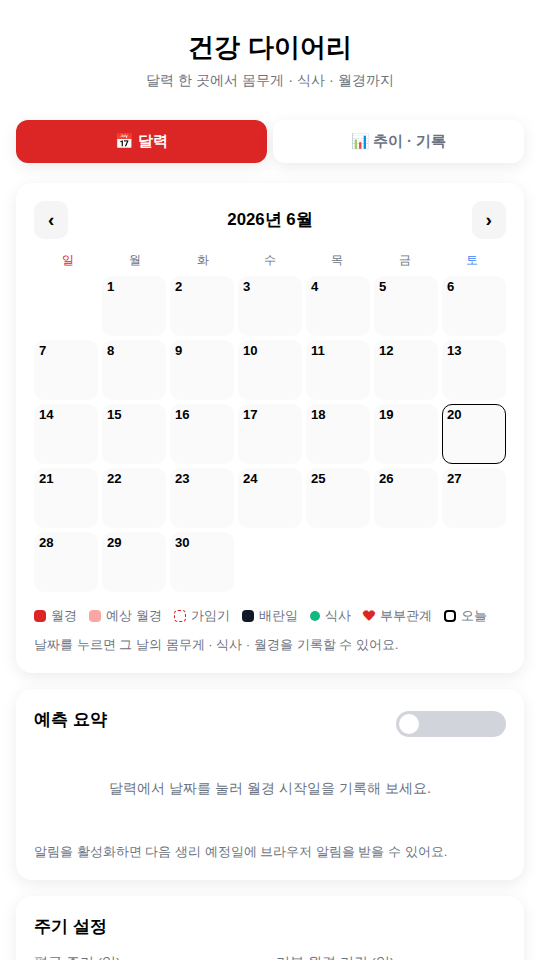
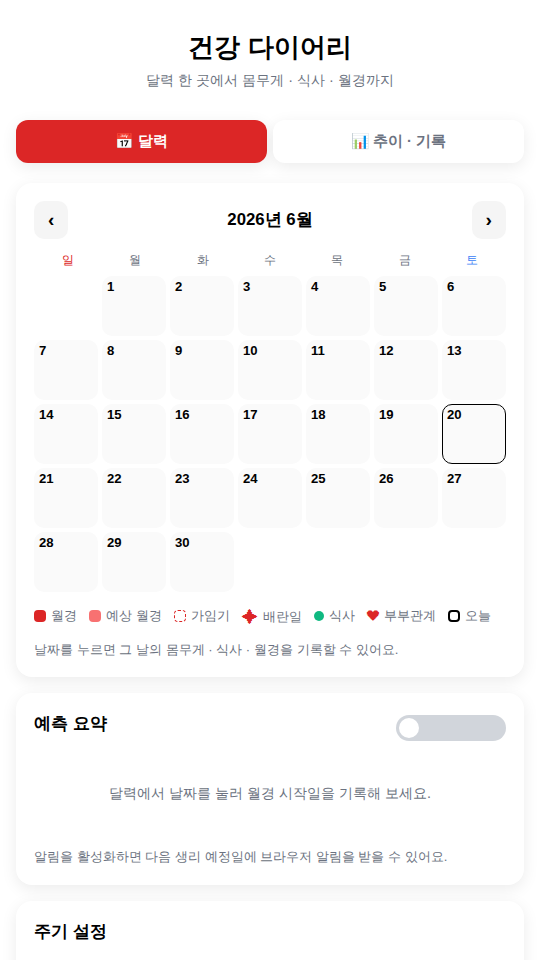
주기 색 조정: 예상 월경 또렷한 레드 + 배란일 아이콘 표시
- 예상 월경: #fca5a5(살구빛) → #f87171(또렷한 레드), 흰 숫자
- 배란일: 블랙 배경 제거 → 흰 배경 + 레드 실선 테두리 + 레드 ✦ 아이콘
- 범례의 배란일도 레드 ✦ 아이콘으로 통일
- 배란일 흰 배경에 맞춰 식사 점/하트 색 보정

Claude-Session: https://claude.ai/code/session_011w39rNkE5H8HzD7QC93gXV

diff --git a/styles.css b/styles.css
@@ -17,9 +17,9 @@
 
   /* 주기 상태 색 (흑·백·레드 스케일) */
   --period: #dc2626;       /* 월경: 진한 레드 */
-  --predicted: #fca5a5;    /* 예상 월경: 연한 레드 */
+  --predicted: #f87171;    /* 예상 월경: 또렷한 레드(살짝 밝게) */
   --fertile: #ffffff;      /* 가임기: 흰 배경 + 레드 점선 테두리(윤곽만) */
-  --ovulation: #111827;    /* 배란일: 블랙(핵심 하루) */
+  --ovulation: #dc2626;    /* 배란일: 레드 아이콘(✦) + 레드 실선 테두리 */
 
   --shadow: 0 4px 16px rgba(0, 0, 0, 0.08);
   --radius: 16px;
@@ -184,9 +184,10 @@ input:focus { outline: none; border-color: var(--accent); }
 .cal-cell.empty-cell { background: transparent; cursor: default; }
 .cal-cell:not(.empty-cell):hover { border-color: var(--accent); }
 .cal-cell.period { background: var(--period); color: #fff; }
-.cal-cell.predicted { background: var(--predicted); color: #7f1d1d; }
+.cal-cell.predicted { background: var(--predicted); color: #fff; }
 .cal-cell.fertile { background: var(--fertile); border-color: var(--accent); border-style: dashed; color: var(--ink); }
-.cal-cell.ovulation { background: var(--ovulation); color: #fff; }
+.cal-cell.ovulation { background: #fff; border-color: var(--ovulation); border-style: solid; color: var(--ink); }
+.cal-cell.ovulation .cal-mark { color: var(--ovulation); opacity: 1; font-size: 0.85rem; }
 .cal-cell.today { border-color: var(--ink); border-style: solid; }
 
 .cal-top { display: flex; justify-content: space-between; align-items: center; line-height: 1; }
@@ -195,16 +196,17 @@ input:focus { outline: none; border-color: var(--accent); }
 .cal-w { font-size: 0.72rem; font-weight: 700; text-align: center; margin-top: auto; }
 .cal-meals { display: flex; gap: 3px; justify-content: center; margin-top: 2px; }
 .cal-meals .md { width: 6px; height: 6px; border-radius: 50%; background: rgba(0,0,0,0.18); }
-.cal-cell.period .cal-meals .md, .cal-cell.ovulation .cal-meals .md { background: rgba(255,255,255,0.4); }
+.cal-cell.period .cal-meals .md { background: rgba(255,255,255,0.4); }
 .cal-meals .md.on { background: var(--green); }
-.cal-cell.period .cal-meals .md.on, .cal-cell.ovulation .cal-meals .md.on { background: #fff; }
+.cal-cell.period .cal-meals .md.on { background: #fff; }
 /* legend meal dot */
 .legend .md { display: inline-block; width: 10px; height: 10px; border-radius: 50%; background: var(--green); margin-right: 5px; vertical-align: middle; }
 .legend .heart-ic { color: var(--accent); font-style: normal; margin-right: 4px; }
+.legend .ov-ic { color: var(--ovulation); font-style: normal; margin-right: 5px; font-size: 1rem; vertical-align: middle; }
 
 /* 부부관계 하트 (달력 칸) */
 .cal-heart { color: var(--accent); font-size: 0.62rem; margin-left: 2px; }
-.cal-cell.period .cal-heart, .cal-cell.ovulation .cal-heart { color: #fff; }
+.cal-cell.period .cal-heart { color: #fff; }
 
 /* Day detail modal */
 .modal-backdrop {
@@ -244,7 +246,6 @@ input:focus { outline: none; border-color: var(--accent); }
 .dot.period { background: var(--period); }
 .dot.predicted { background: var(--predicted); }
 .dot.fertile { background: var(--fertile); border: 1.5px dashed var(--accent); }
-.dot.ovulation { background: var(--ovulation); }
 .dot.today { background: #fff; border: 2px solid var(--ink); }
 
 .predict { display: flex; flex-direction: column; gap: 10px; }

diff --git a/index.html b/index.html
@@ -43,7 +43,7 @@
           <span><i class="dot period"></i>월경</span>
           <span><i class="dot predicted"></i>예상 월경</span>
           <span><i class="dot fertile"></i>가임기</span>
-          <span><i class="dot ovulation"></i>배란일</span>
+          <span><i class="ov-ic">✦</i>배란일</span>
           <span><i class="md on"></i>식사</span>
           <span><i class="heart-ic">❤</i>부부관계</span>
           <span><i class="dot today"></i>오늘</span>

diff --git a/sw.js b/sw.js
@@ -1,4 +1,4 @@
-const CACHE_NAME = 'health-diary-v8';
+const CACHE_NAME = 'health-diary-v9';
 const ASSETS = [
   './',
   './index.html',